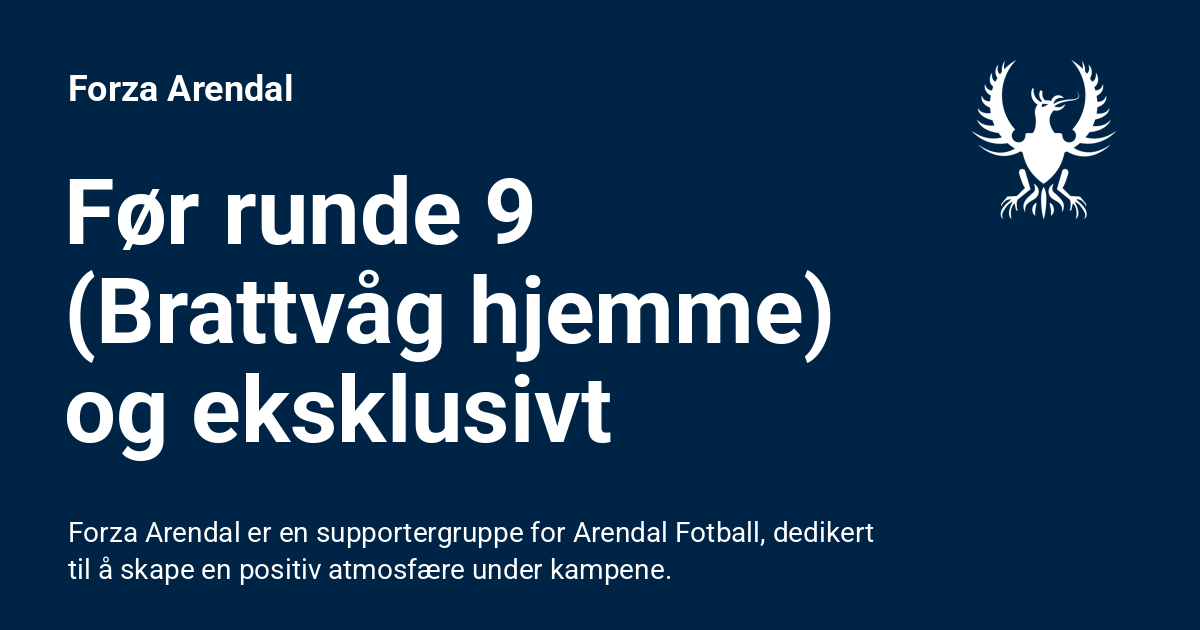
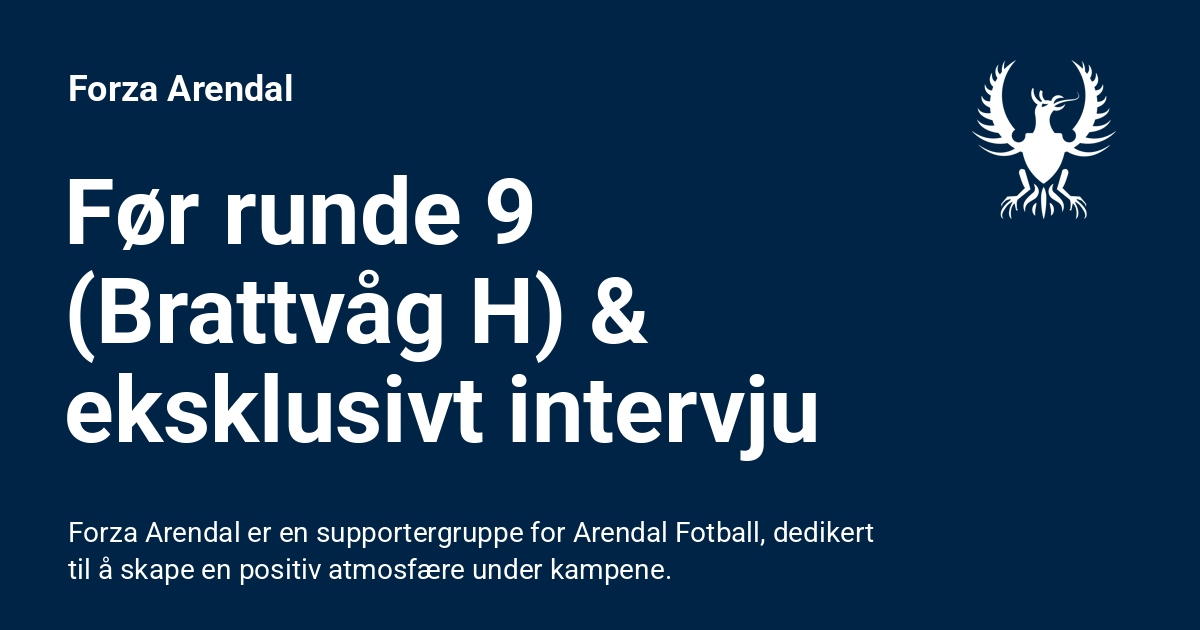
Deployed 9e7f6e3 with MkDocs version: 1.6.1

Changed region(s): [[0.0617, 0.573, 0.6783, 0.754], [0.4008, 0.4222, 0.7092, 0.573]]

diff --git a/blog/archive/2025/index.html b/blog/archive/2025/index.html
@@ -699,7 +699,7 @@
     <div class="md-post__meta md-meta">
       <ul class="md-meta__list">
         <li class="md-meta__item">
-          <time datetime="2025-06-06 00:00:00+00:00">June 6, 2025</time></li>
+          <time datetime="2025-06-05 00:00:00+00:00">June 5, 2025</time></li>
         
         
           
@@ -714,10 +714,10 @@
     </div>
   </header>
   <div class="md-post__content md-typeset">
-    <h2 id="fr-runde-9-brattvag-hjemme-og-eksklusivt-intervju"><a class="toclink" href="../../2025/06/06/f%C3%B8r-runde-9-brattv%C3%A5g-hjemme-og-eksklusivt-intervju/">Før runde 9 (Brattvåg hjemme) og eksklusivt intervju</a></h2>
+    <h2 id="fr-runde-9-brattvag-h-eksklusivt-intervju"><a class="toclink" href="../../2025/06/05/f%C3%B8r-runde-9-brattv%C3%A5g-h--eksklusivt-intervju/">Før runde 9 (Brattvåg H) &amp; eksklusivt intervju</a></h2>
 <details class="forza" open="open">
 <summary>Forza</summary>
-<p><a href="../../2025/06/06/f%C3%B8r-runde-9-brattv%C3%A5g-hjemme-og-eksklusivt-intervju/#intervju-med-vegard-hansen">Vi har et eksklusivt intervju med selveste Vegard Hansen dere kan se i bunnen av denne artikkelen.</a> <br>
+<p><a href="../../2025/06/05/f%C3%B8r-runde-9-brattv%C3%A5g-h--eksklusivt-intervju/#intervju-med-vegard-hansen">Vi har et eksklusivt intervju med selveste Vegard Hansen dere kan se i bunnen av denne artikkelen.</a> <br>
 Synspunktene i denne artikkelen er mine og deles ikke nødvendigvis av ham.</p>
 </details>
 <p>Du trodde kanskje helgens høydepunkt kommer fredag klokken 20:45 da Norge tar imot Italia i det som, etter alle solemerker, kan bli Norges billett til VM. Vel, tro om igjen!
@@ -731,12 +731,12 @@ Søndag klokken 13:00 tar Arendal imot Brattvåg til dyst i det som har vist seg
 </ul>
 <p>Jeg skal ikke legge skjul på at jeg var nokså skuffet over at det ikke ble seier over Sandviken (Som man kan lese i forrige rundeoppsummering), selv om jeg i retrospekt burde være fornøyd med et poeng, med tanke på at man lå under til langt på overtid.
 Til tross for litt sure poengtap er det kun 3 poeng opp til toppen. Som jeg har nevnt flere ganger, så tror jeg det første laget til å sy sammen en seiersrekke vil være det laget som rykker opp. Et Brattvåg lag som har sluppet inn flest mål i avdeling (likt som Fløy), <strong>MÅ</strong> man slå på hjemmebane hvis man skal være blant de beste i avdelingen.</p>
-<h3 id="vrige-kamper"><a class="toclink" href="../../2025/06/06/f%C3%B8r-runde-9-brattv%C3%A5g-hjemme-og-eksklusivt-intervju/#vrige-kamper">Øvrige kamper</a></h3>
+<h3 id="vrige-kamper"><a class="toclink" href="../../2025/06/05/f%C3%B8r-runde-9-brattv%C3%A5g-h--eksklusivt-intervju/#vrige-kamper">Øvrige kamper</a></h3>
 <p>Jerv får en veldig tøff bortekamp mot et høytflyvende Sotra. Renate Blindheims lag har kun sluppet inn 7 mål, som er desidert minst i avdelingen. Jerv på sin side er det laget som topper bortebane-tabellen med 3 serire og 1 uavgjort. Det blir også spennende å se på hvordan responsen er etter at Bohinen trakk seg tidligere i uken. Jeg håper naturligvis Arendalvenn Koko kan filleriste Jerv. For å sitere han:"Forza hater Jerv, så da gjør jeg det og!"</p>
 <p>Brann 2 skal til Notodden, som også har startet sesongen over all forventning. Man ser muligens antydning til at ting går hakket tråere, ettersom laget har 0-2-1 på de 3 siste kampene. Det er ferie for Brann A-lag, så det er jo naturligvis litt usikkerhet, hvordan lag de stiller med. Vil A-lagsspillerne få helt fri eller er det fare for at de sender noen etablerte spillere til Notodden?</p>
 <p>Sandes Ulf reiser til Haugesund, som etter en litt trå start, har fått skikkelig fart på sakene og har ikke tapt på de siste 5. Selv om de ligger på 8. plass er det bare 4 poeng opp til første, og med seier her vil det kun være 1 poeng opp til Sandnes Ulf.
 Sandnes på sin side, viser seg å kanskje ikke være så enorme favoritter som folk skulle ha det til før sesongen. Laget som slapp inn nesten 100 mål i Obos i fjor har slitt med å imponerende voldsomt og skal prise seg lykkelige over Ole Sebastian Sundgot som har startet sesongen med 10 mål på de 8 første.</p>
-<h3 id="intervju-med-vegard-hansen"><a class="toclink" href="../../2025/06/06/f%C3%B8r-runde-9-brattv%C3%A5g-hjemme-og-eksklusivt-intervju/#intervju-med-vegard-hansen">Intervju med Vegard Hansen</a></h3>
+<h3 id="intervju-med-vegard-hansen"><a class="toclink" href="../../2025/06/05/f%C3%B8r-runde-9-brattv%C3%A5g-h--eksklusivt-intervju/#intervju-med-vegard-hansen">Intervju med Vegard Hansen</a></h3>
 <p>Jeg fikk en prat med Vegard Hansen tidligere i uken, og her er hva han hadde å si:</p>
 <video controls width="350" poster="https://raw.githubusercontent.com/lewiuberg/forza-arendal/refs/heads/master/docs/assets/images/blog/2025/2025-06-06_1.png?raw=true">
   <source src="https://raw.githubusercontent.com/lewiuberg/forza-arendal/refs/heads/master/docs/assets/video/2025/2025-06-06_1.mp4" type="video/mp4">

diff --git a/blog/index.html b/blog/index.html
@@ -688,7 +688,7 @@
     <div class="md-post__meta md-meta">
       <ul class="md-meta__list">
         <li class="md-meta__item">
-          <time datetime="2025-06-06 00:00:00+00:00">June 6, 2025</time></li>
+          <time datetime="2025-06-05 00:00:00+00:00">June 5, 2025</time></li>
         
         
           
@@ -703,10 +703,10 @@
     </div>
   </header>
   <div class="md-post__content md-typeset">
-    <h2 id="fr-runde-9-brattvag-hjemme-og-eksklusivt-intervju"><a class="toclink" href="2025/06/06/f%C3%B8r-runde-9-brattv%C3%A5g-hjemme-og-eksklusivt-intervju/">Før runde 9 (Brattvåg hjemme) og eksklusivt intervju</a></h2>
+    <h2 id="fr-runde-9-brattvag-h-eksklusivt-intervju"><a class="toclink" href="2025/06/05/f%C3%B8r-runde-9-brattv%C3%A5g-h--eksklusivt-intervju/">Før runde 9 (Brattvåg H) &amp; eksklusivt intervju</a></h2>
 <details class="forza" open="open">
 <summary>Forza</summary>
-<p><a href="2025/06/06/f%C3%B8r-runde-9-brattv%C3%A5g-hjemme-og-eksklusivt-intervju/#intervju-med-vegard-hansen">Vi har et eksklusivt intervju med selveste Vegard Hansen dere kan se i bunnen av denne artikkelen.</a> <br>
+<p><a href="2025/06/05/f%C3%B8r-runde-9-brattv%C3%A5g-h--eksklusivt-intervju/#intervju-med-vegard-hansen">Vi har et eksklusivt intervju med selveste Vegard Hansen dere kan se i bunnen av denne artikkelen.</a> <br>
 Synspunktene i denne artikkelen er mine og deles ikke nødvendigvis av ham.</p>
 </details>
 <p>Du trodde kanskje helgens høydepunkt kommer fredag klokken 20:45 da Norge tar imot Italia i det som, etter alle solemerker, kan bli Norges billett til VM. Vel, tro om igjen!
@@ -720,12 +720,12 @@ Søndag klokken 13:00 tar Arendal imot Brattvåg til dyst i det som har vist seg
 </ul>
 <p>Jeg skal ikke legge skjul på at jeg var nokså skuffet over at det ikke ble seier over Sandviken (Som man kan lese i forrige rundeoppsummering), selv om jeg i retrospekt burde være fornøyd med et poeng, med tanke på at man lå under til langt på overtid.
 Til tross for litt sure poengtap er det kun 3 poeng opp til toppen. Som jeg har nevnt flere ganger, så tror jeg det første laget til å sy sammen en seiersrekke vil være det laget som rykker opp. Et Brattvåg lag som har sluppet inn flest mål i avdeling (likt som Fløy), <strong>MÅ</strong> man slå på hjemmebane hvis man skal være blant de beste i avdelingen.</p>
-<h3 id="vrige-kamper"><a class="toclink" href="2025/06/06/f%C3%B8r-runde-9-brattv%C3%A5g-hjemme-og-eksklusivt-intervju/#vrige-kamper">Øvrige kamper</a></h3>
+<h3 id="vrige-kamper"><a class="toclink" href="2025/06/05/f%C3%B8r-runde-9-brattv%C3%A5g-h--eksklusivt-intervju/#vrige-kamper">Øvrige kamper</a></h3>
 <p>Jerv får en veldig tøff bortekamp mot et høytflyvende Sotra. Renate Blindheims lag har kun sluppet inn 7 mål, som er desidert minst i avdelingen. Jerv på sin side er det laget som topper bortebane-tabellen med 3 serire og 1 uavgjort. Det blir også spennende å se på hvordan responsen er etter at Bohinen trakk seg tidligere i uken. Jeg håper naturligvis Arendalvenn Koko kan filleriste Jerv. For å sitere han:"Forza hater Jerv, så da gjør jeg det og!"</p>
 <p>Brann 2 skal til Notodden, som også har startet sesongen over all forventning. Man ser muligens antydning til at ting går hakket tråere, ettersom laget har 0-2-1 på de 3 siste kampene. Det er ferie for Brann A-lag, så det er jo naturligvis litt usikkerhet, hvordan lag de stiller med. Vil A-lagsspillerne få helt fri eller er det fare for at de sender noen etablerte spillere til Notodden?</p>
 <p>Sandes Ulf reiser til Haugesund, som etter en litt trå start, har fått skikkelig fart på sakene og har ikke tapt på de siste 5. Selv om de ligger på 8. plass er det bare 4 poeng opp til første, og med seier her vil det kun være 1 poeng opp til Sandnes Ulf.
 Sandnes på sin side, viser seg å kanskje ikke være så enorme favoritter som folk skulle ha det til før sesongen. Laget som slapp inn nesten 100 mål i Obos i fjor har slitt med å imponerende voldsomt og skal prise seg lykkelige over Ole Sebastian Sundgot som har startet sesongen med 10 mål på de 8 første.</p>
-<h3 id="intervju-med-vegard-hansen"><a class="toclink" href="2025/06/06/f%C3%B8r-runde-9-brattv%C3%A5g-hjemme-og-eksklusivt-intervju/#intervju-med-vegard-hansen">Intervju med Vegard Hansen</a></h3>
+<h3 id="intervju-med-vegard-hansen"><a class="toclink" href="2025/06/05/f%C3%B8r-runde-9-brattv%C3%A5g-h--eksklusivt-intervju/#intervju-med-vegard-hansen">Intervju med Vegard Hansen</a></h3>
 <p>Jeg fikk en prat med Vegard Hansen tidligere i uken, og her er hva han hadde å si:</p>
 <video controls width="350" poster="https://raw.githubusercontent.com/lewiuberg/forza-arendal/refs/heads/master/docs/assets/images/blog/2025/2025-06-06_1.png?raw=true">
   <source src="https://raw.githubusercontent.com/lewiuberg/forza-arendal/refs/heads/master/docs/assets/video/2025/2025-06-06_1.mp4" type="video/mp4">

diff --git a/blog/2025/06/05/før-runde-9-brattvåg-h--eksklusivt-intervju/index.html b/blog/2025/06/05/før-runde-9-brattvåg-h--eksklusivt-intervju/index.html
@@ -10,7 +10,7 @@
       
       
       
-        <link rel="canonical" href="https://forza-arendal.no/blog/2025/06/06/f%C3%B8r-runde-9-brattv%C3%A5g-hjemme-og-eksklusivt-intervju/">
+        <link rel="canonical" href="https://forza-arendal.no/blog/2025/06/05/f%C3%B8r-runde-9-brattv%C3%A5g-h--eksklusivt-intervju/">
       
       
         <link rel="prev" href="../../02/oppsummering-runde-8/">
@@ -22,7 +22,7 @@
     
     
       
-        <title>Før runde 9 (Brattvåg hjemme) og eksklusivt intervju - Forza Arendal</title>
+        <title>Før runde 9 (Brattvåg H) & eksklusivt intervju - Forza Arendal</title>
       
     
     
@@ -69,7 +69,7 @@
       
         <meta  property="og:type"  content="website" >
       
-        <meta  property="og:title"  content="Før runde 9 (Brattvåg hjemme) og eksklusivt intervju - Forza Arendal" >
+        <meta  property="og:title"  content="Før runde 9 (Brattvåg H) &amp; eksklusivt intervju - Forza Arendal" >
       
         <meta  property="og:description"  content="Forza Arendal er en supportergruppe for Arendal Fotball, dedikert til å skape en positiv atmosfære under kampene." >
       
@@ -81,11 +81,11 @@
       
         <meta  property="og:image:height"  content="630" >
       
-        <meta  property="og:url"  content="https://forza-arendal.no/blog/2025/06/06/f%C3%B8r-runde-9-brattv%C3%A5g-hjemme-og-eksklusivt-intervju/" >
+        <meta  property="og:url"  content="https://forza-arendal.no/blog/2025/06/05/f%C3%B8r-runde-9-brattv%C3%A5g-h--eksklusivt-intervju/" >
       
         <meta  name="twitter:card"  content="summary_large_image" >
       
-        <meta  name="twitter:title"  content="Før runde 9 (Brattvåg hjemme) og eksklusivt intervju - Forza Arendal" >
+        <meta  name="twitter:title"  content="Før runde 9 (Brattvåg H) &amp; eksklusivt intervju - Forza Arendal" >
       
         <meta  name="twitter:description"  content="Forza Arendal er en supportergruppe for Arendal Fotball, dedikert til å skape en positiv atmosfære under kampene." >
       
@@ -112,7 +112,7 @@
     <div data-md-component="skip">
       
         
-        <a href="#fr-runde-9-brattvag-hjemme-og-eksklusivt-intervju" class="md-skip">
+        <a href="#fr-runde-9-brattvag-h-eksklusivt-intervju" class="md-skip">
           Skip to content
         </a>
       
@@ -145,7 +145,7 @@
         <div class="md-header__topic" data-md-component="header-topic">
           <span class="md-ellipsis">
             
-              Før runde 9 (Brattvåg hjemme) og eksklusivt intervju
+              Før runde 9 (Brattvåg H) &amp; eksklusivt intervju
             
           </span>
         </div>
@@ -714,9 +714,16 @@
                     <li class="md-nav__item">
                       <div class="md-nav__link">
                         <svg xmlns="http://www.w3.org/2000/svg" viewBox="0 0 24 24"><path d="M19 19H5V8h14m-3-7v2H8V1H6v2H5c-1.11 0-2 .89-2 2v14a2 2 0 0 0 2 2h14a2 2 0 0 0 2-2V5a2 2 0 0 0-2-2h-1V1m-1 11h-5v5h5z"/></svg>
-                        <time datetime="2025-06-06 00:00:00+00:00" class="md-ellipsis">June 6, 2025</time>
+                        <time datetime="2025-06-05 00:00:00+00:00" class="md-ellipsis">June 5, 2025</time>
                       </div>
                     </li>
+                    
+                      <li class="md-nav__item">
+                        <div class="md-nav__link">
+                          <svg xmlns="http://www.w3.org/2000/svg" viewBox="0 0 24 24"><path d="M15 13h1.5v2.82l2.44 1.41-.75 1.3L15 16.69zm4-5H5v11h4.67c-.43-.91-.67-1.93-.67-3a7 7 0 0 1 7-7c1.07 0 2.09.24 3 .67zM5 21a2 2 0 0 1-2-2V5c0-1.11.89-2 2-2h1V1h2v2h8V1h2v2h1a2 2 0 0 1 2 2v6.1c1.24 1.26 2 2.99 2 4.9a7 7 0 0 1-7 7c-1.91 0-3.64-.76-4.9-2zm11-9.85A4.85 4.85 0 0 0 11.15 16c0 2.68 2.17 4.85 4.85 4.85A4.85 4.85 0 0 0 20.85 16c0-2.68-2.17-4.85-4.85-4.85"/></svg>
+                          <time datetime="2025-06-06 00:00:00+00:00" class="md-ellipsis">June 6, 2025</time>
+                        </div>
+                      </li>
                     
                     
                     
@@ -875,7 +882,7 @@
   
 
 
-<h1 id="fr-runde-9-brattvag-hjemme-og-eksklusivt-intervju">Før runde 9 (Brattvåg hjemme) og eksklusivt intervju<a class="headerlink" href="#fr-runde-9-brattvag-hjemme-og-eksklusivt-intervju" title="Anchor link to this section for reference">&para;</a></h1>
+<h1 id="fr-runde-9-brattvag-h-eksklusivt-intervju">Før runde 9 (Brattvåg H) &amp; eksklusivt intervju<a class="headerlink" href="#fr-runde-9-brattvag-h-eksklusivt-intervju" title="Anchor link to this section for reference">&para;</a></h1>
 <details class="forza" open="open">
 <summary>Forza</summary>
 <p><a href="#intervju-med-vegard-hansen">Vi har et eksklusivt intervju med selveste Vegard Hansen dere kan se i bunnen av denne artikkelen.</a> <br>

diff --git a/blog/2025/06/02/oppsummering-runde-8/index.html b/blog/2025/06/02/oppsummering-runde-8/index.html
@@ -16,7 +16,7 @@
         <link rel="prev" href="../../01/arendal-fotball-satser-p%C3%A5-lokalfotballen/">
       
       
-        <link rel="next" href="../../06/f%C3%B8r-runde-9-brattv%C3%A5g-hjemme-og-eksklusivt-intervju/">
+        <link rel="next" href="../../05/f%C3%B8r-runde-9-brattv%C3%A5g-h--eksklusivt-intervju/">
       
       
       <link rel="icon" href="../../../../../assets/images/logo/favicon.ico">
